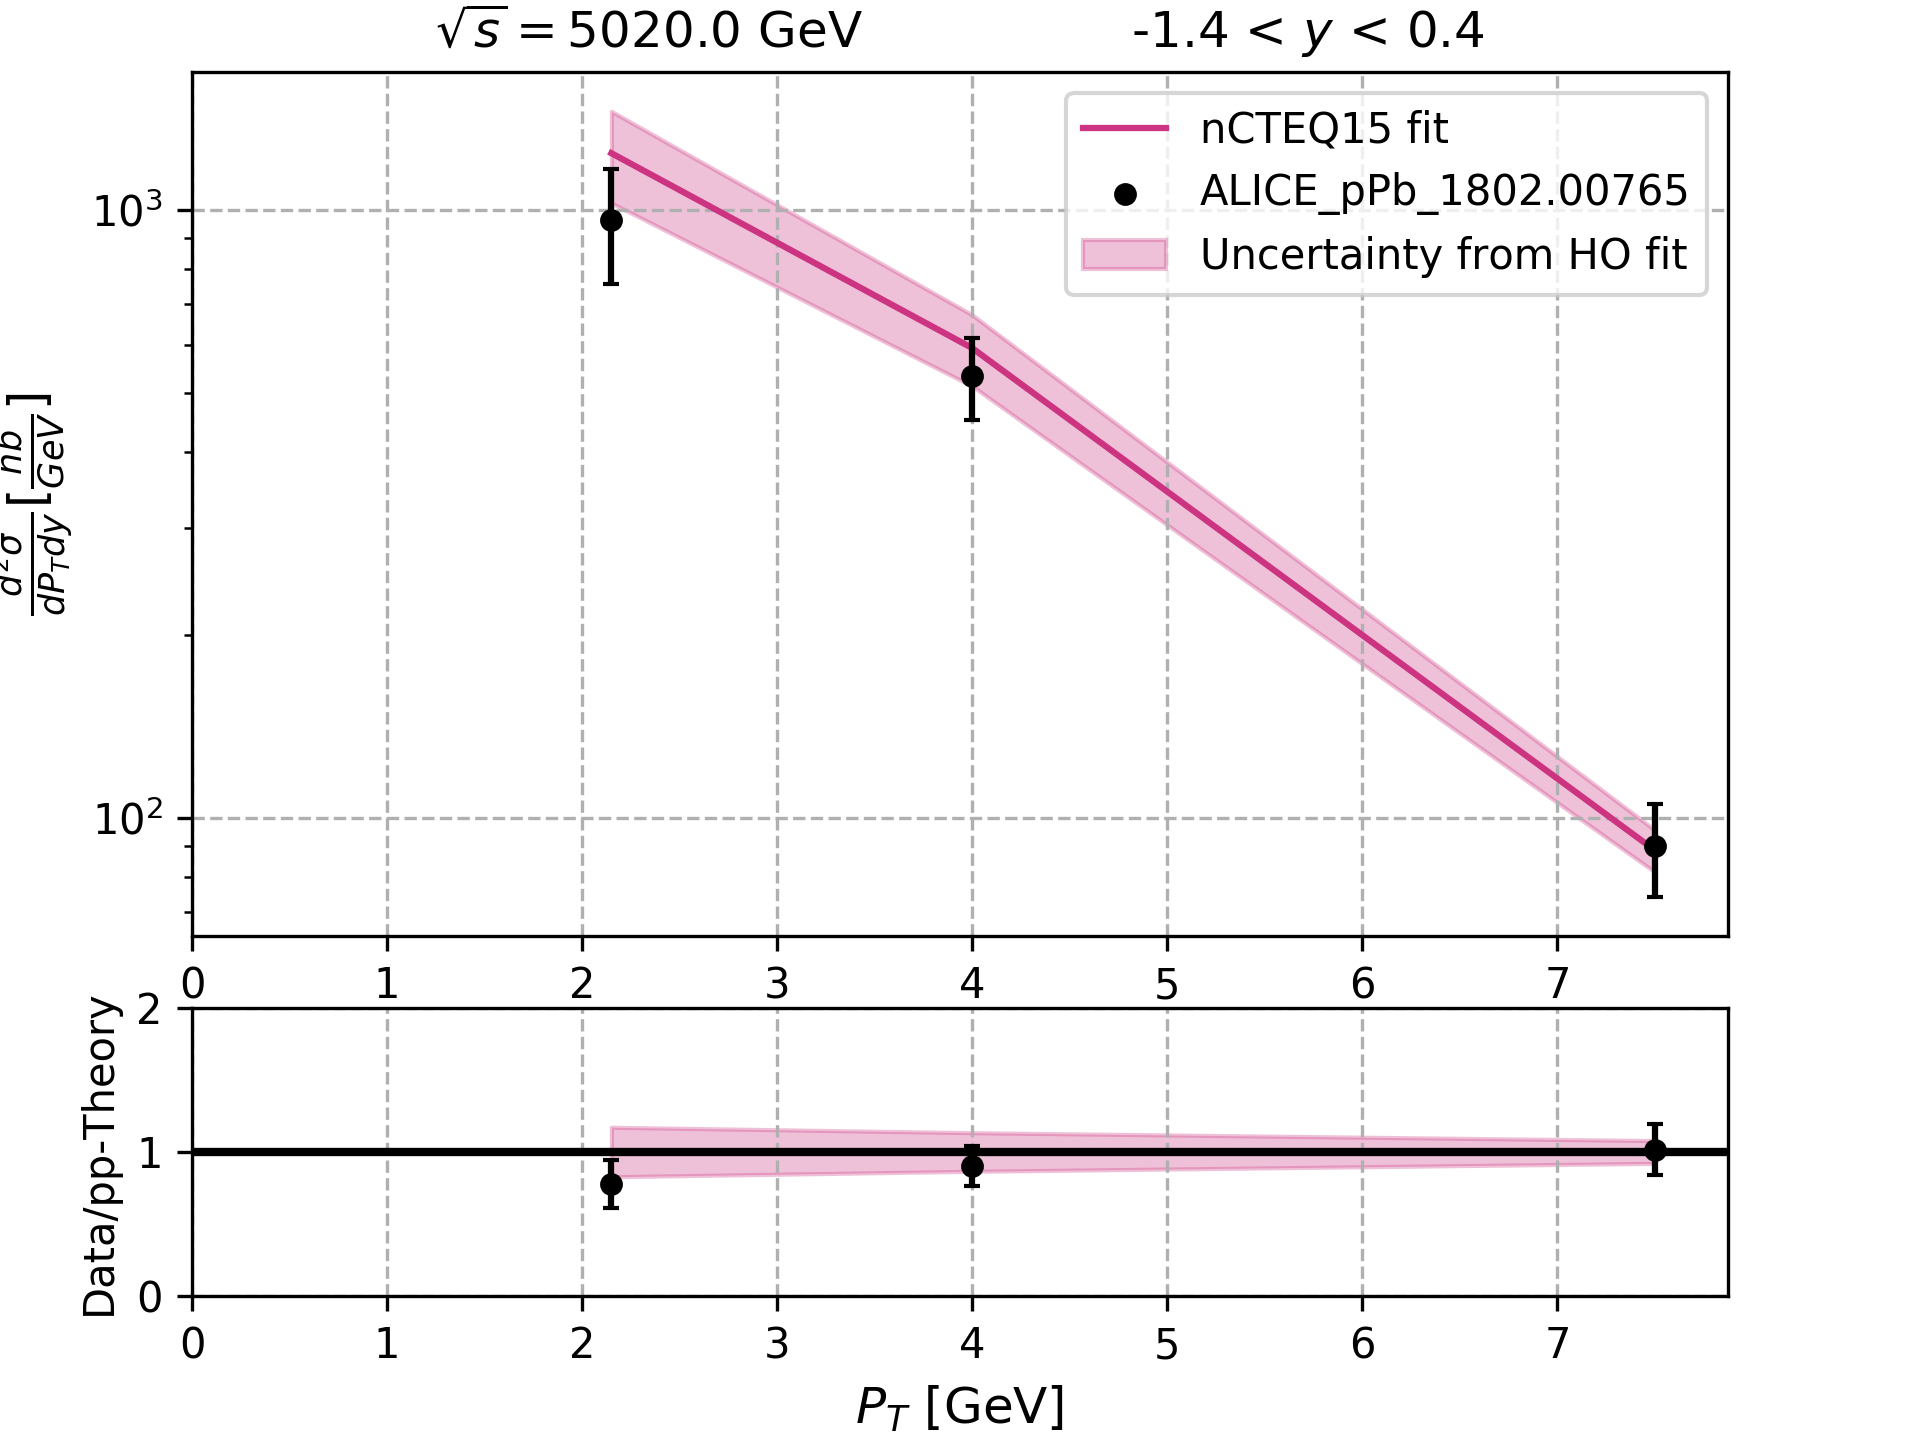
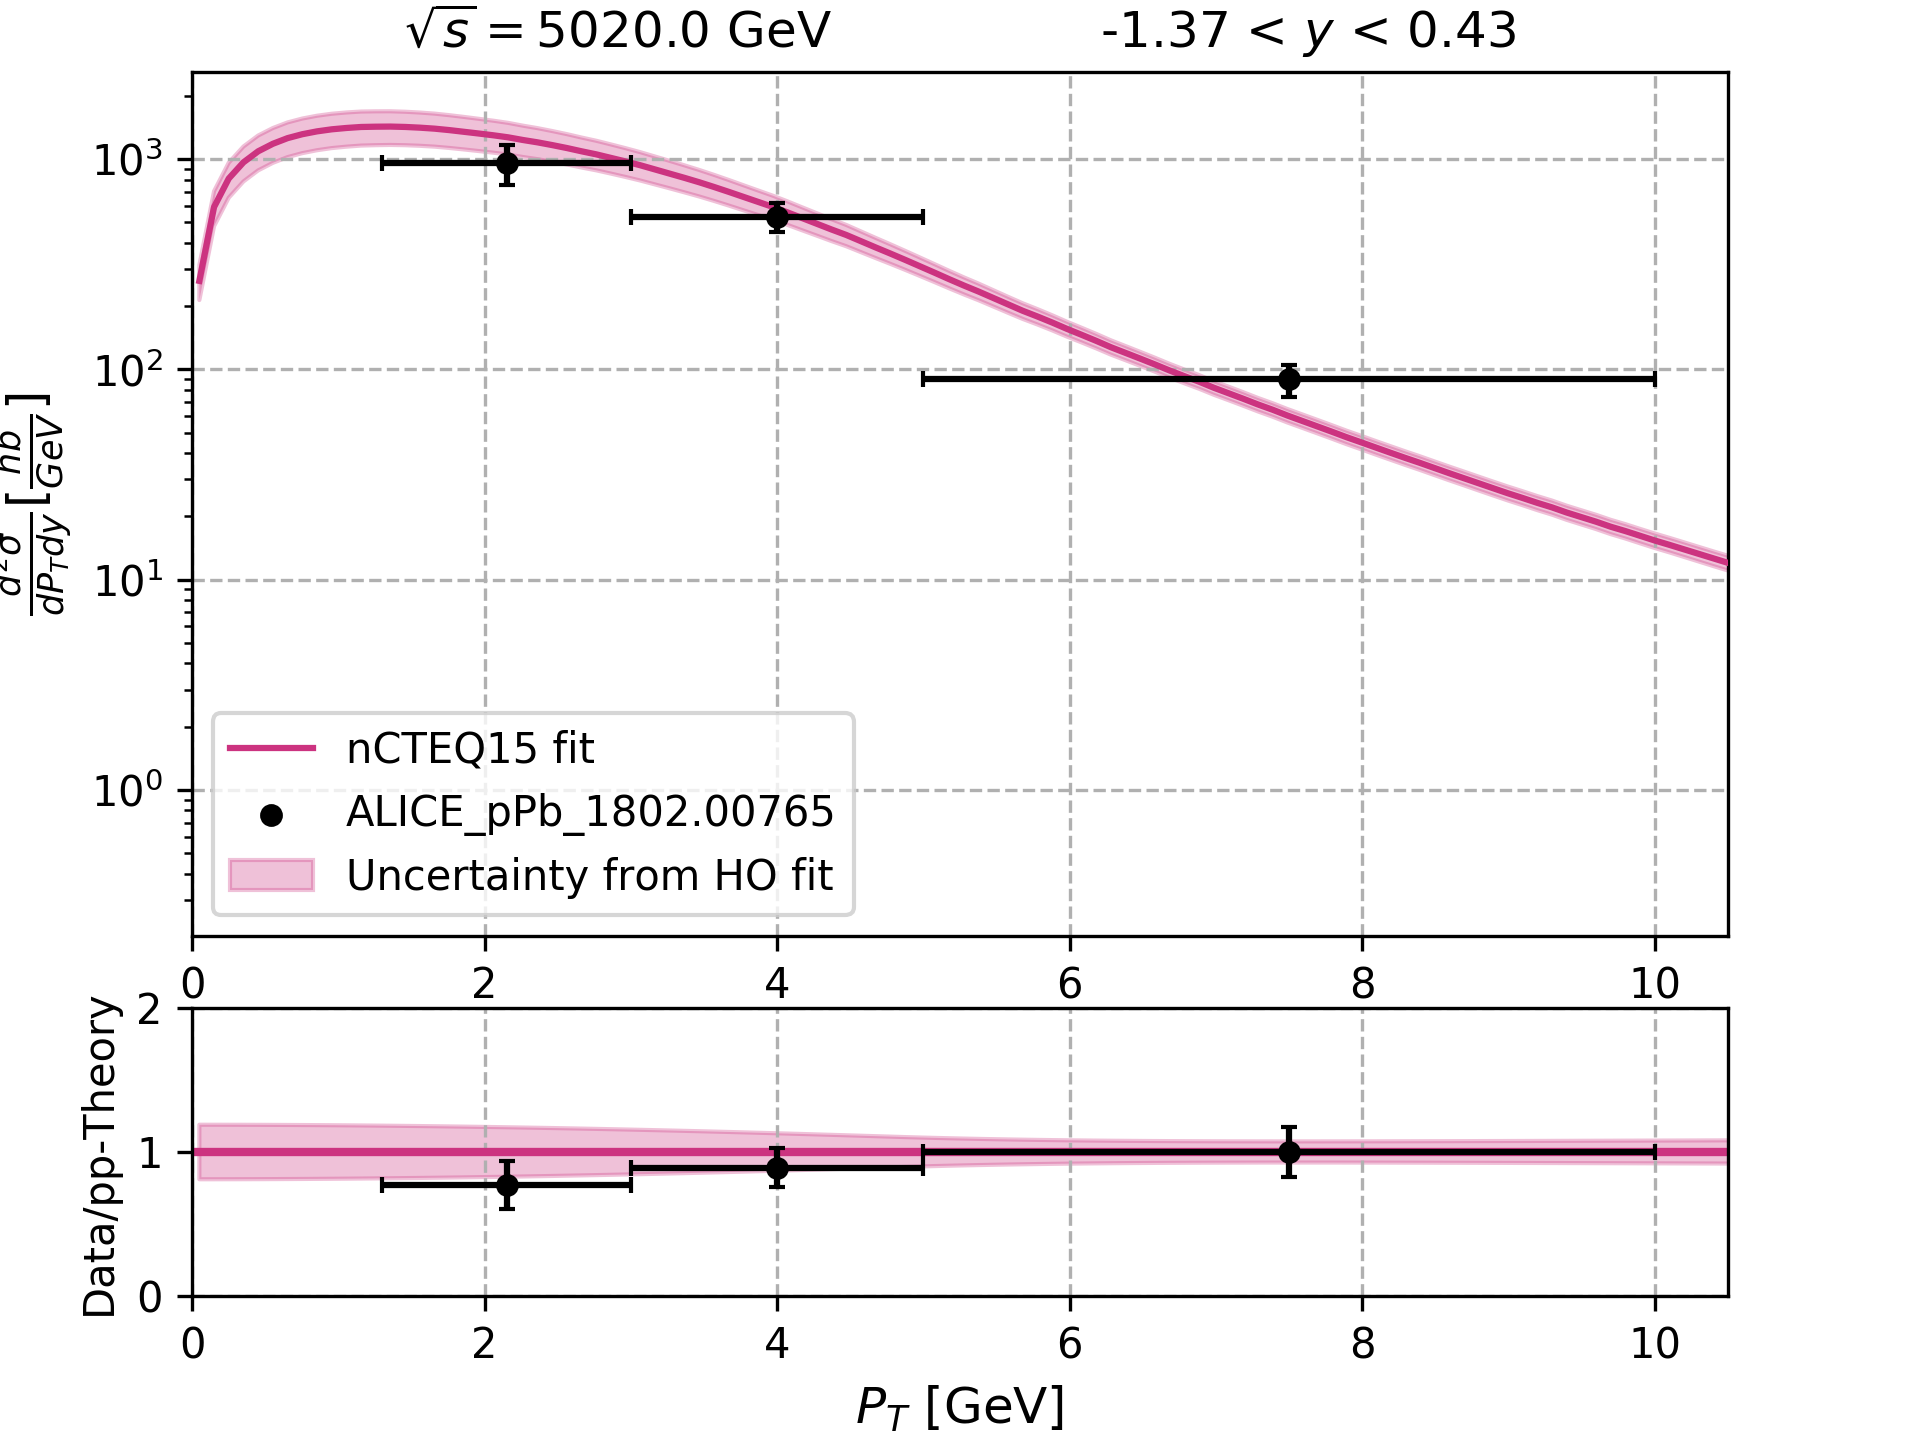
Updated plots

diff --git a/poster_plot.py b/poster_plot.py
@@ -1,10 +1,12 @@
 from __future__ import division
 import numpy as np
 import matplotlib.pyplot as plt
+import matplotlib as mpl
 import sys
 import os
 from random import shuffle
 
+mpl.rcParams['axes.linewidth'] = 1.2
 #plt.style.use("seaborn")
 #theory_folder = "./helaconia/hessian/alice_theory/"
 #data_folder = "./helaconia/hessian/alice_pp_pPb/"
@@ -54,9 +56,15 @@ for k in range(n):
 
 shuffle(colors)
 
+colors = [(0.8,0.2,0.5),(0.5,0.8,0.2),(0.2,0.5,0.8)]
+
+s_list = []
+y_list = []
+
+figure = plt.figure(1)
 for j in range(1,1+len(data_sets)):
     if j == 1:
-        normalization = 1
+        continue
     else:
         normalization = 1000/208
     p_array = np.loadtxt(theory_folder + "PROC_HO_0/P0_addon_fit_pp_psiX_CrystalBall/output/comparison_{}.dat".format(j+len(data_sets)))[:,0:2]
@@ -67,6 +75,8 @@ for j in range(1,1+len(data_sets)):
     y_bounds = [data_sets[j-1][1].split(" ")[1], data_sets[j-1][1].split(" ")[2]]
     s = data_sets[j-1][1].split(" ")[0]
     ev_list = []
+    s_list.append(s)
+    y_list.append(y_bounds)
     
     for i in range(1, 2*N_ev+1)[::-1]:
         array = np.loadtxt(theory_folder + "PROC_HO_{}/P0_addon_fit_pp_psiX_CrystalBall/output/comparison_{}.dat".format(i, j+len(data_sets)))
@@ -79,33 +89,48 @@ for j in range(1,1+len(data_sets)):
         
     errors = np.sqrt(errors)
 
-    figure = plt.figure(1)
-    frame1 = figure.add_axes((0.1,0.35,0.8,0.6))
-    plt.title(r"$\sqrt{s} = $" + "{} GeV                 ".format(s) + "{} < $y$ < {}".format(y_bounds[0], y_bounds[1]), fontsize  = 12)
+    frame1 = figure.add_axes((0.15,0.1+1.6/3-(j-2)*0.8/3,0.8,0.8/3))
+    
+    #plt.title(r"$\sqrt{s} = $" + "{} GeV                 ".format(s) + "{} < $y$ < {}".format(y_bounds[0], y_bounds[1]), fontsize  = 12)
     plt.xlim(0,60)
-    plt.plot(pt_array_p, p_array[:,1], "-", zorder = 99, color = (0.8,0.2,0.5), label = "nCTEQ15 fit")
-    plt.scatter((pt_mins[j-1]+pt_maxs[j-1])/2, data_array[:,0]*normalization, marker="o", zorder = 999, color = (0,0,0), s = 20, label = data_sets[j-1][0][2:-1])
-    plt.errorbar((pt_mins[j-1]+pt_maxs[j-1])/2, data_array[:,0]*normalization, yerr = data_array[:,1]*normalization, xerr = (pt_maxs[j-1]-pt_mins[j-1])/2, zorder = 109, color = (0,0,0), fmt="", capsize=2)
-    plt.fill_between(pt_array_p, (ev_list[0][:,1]+ev_list[1][:,1])/2-errors, (ev_list[0][:,1]+ev_list[1][:,1])/2+errors, color = (0.8,0.2,0.5), alpha = 0.3, label="Uncertainty from HO fit")
+    plt.plot(pt_array_p, p_array[:,1], "-", zorder = 99, color = (0.0,0.0,0.0))
+    plt.errorbar((pt_mins[j-1]+pt_maxs[j-1])/2, data_array[:,0]*normalization, yerr = data_array[:,1]*normalization, xerr = (pt_maxs[j-1]-pt_mins[j-1])/2, zorder = 109, color=colors[j-2], fmt="", capsize=2)
+    plt.fill_between(pt_array_p, (ev_list[0][:,1]+ev_list[1][:,1])/2-errors, (ev_list[0][:,1]+ev_list[1][:,1])/2+errors, color = (0.0,0.0,0.0), alpha = 0.3)
+    plt.scatter((pt_mins[j-1]+pt_maxs[j-1])/2, data_array[:,0]*normalization, marker="o", zorder = 999, color = colors[j-2], s = 20, label = r"$\sqrt{s} = $" + "{} TeV;   ".format(int(float(s))//1000) + "$y\in[{}, {}]$".format(y_bounds[0], y_bounds[1]))
     plt.yscale("log")
-    plt.legend(loc = "lower left")
-    plt.xlim(0, min(max(pt_maxs[j-1])*1.05,20))
+    plt.xlim(0, 20)
+    plt.ylim(0.2, 2500)
+    plt.legend(frameon=True, loc = "lower left")
     #plt.ylim(min(data_array[:,0])/4, max(data_array[:,0])*4)
     #plt.xticks([])
     plt.ylabel(r"$\frac{d^2\sigma}{dP_Tdy} [\frac{nb}{GeV}]$", fontsize = 12)
     plt.grid(linestyle= "--")
-
-    frame2 = figure.add_axes((0.1,0.1,0.8,0.2))
+    if j == 4:
+        plt.xticks([0,4,8,12,16,20], [0,4,8,12,16,20])
+    else:
+        plt.xticks([0,4,8,12,16,20], [" ", " ", " ", " ", " ", " "])
+    """
+    #frame2 = figure.add_axes((0.1,0.1,0.8,0.2))
     #plt.fill_between(pt_array_p, ((ev_list[0][:,1]+ev_list[1][:,1])/2-errors)/((ev_list[0][:,1]+ev_list[1][:,1])/2), ((ev_list[0][:,1]+ev_list[1][:,1])/2+errors)/((ev_list[0][:,1]+ev_list[1][:,1])/2), color = (0.8,0.2,0.5), alpha = 0.3)
     plt.scatter((pt_mins[j-1]+pt_maxs[j-1])/2, data_array[:,0]/pp_data_array[:,1]*normalization, marker="o", zorder = 999, color = (0,0,0), s = 20, label = data_sets[j-1][0][2:-1])
     plt.errorbar((pt_mins[j-1]+pt_maxs[j-1])/2, data_array[:,0]*normalization/pp_data_array[:,1], yerr = data_array[:,1]*normalization/pp_data_array[:,1], xerr = (pt_maxs[j-1]-pt_mins[j-1])/2, zorder = 109, color = (0,0,0), fmt="", capsize=2)
     plt.fill_between(pt_array_p, ((ev_list[0][:,1]+ev_list[1][:,1])/2-errors)/p_array[:,1], ((ev_list[0][:,1]+ev_list[1][:,1])/2+errors)/p_array[:,1], color = (0.8,0.2,0.5), alpha = 0.3)
     plt.ylabel("Data/pp-Theory")
     plt.plot([-1,99999], [1,1], "-", linewidth = "2", color = (0.8,0.2,0.5))
-    plt.xlabel("$P_T$ [GeV]", fontsize = 12)
     plt.xlim(0, min(max(pt_maxs[j-1])*1.05,20))
     plt.ylim(0.,2.)
     plt.grid(linestyle= "--")
+    """
     #plt.yscale("log")
-    plt.savefig("plots/alice_pPb_comparison_{}".format(j), dpi = 300)
-    plt.show()
+#plt.scatter((pt_mins[j-1]+pt_maxs[j-1])/2+1000, data_array[:,0]*normalization, marker="o", zorder = 999, color = colors[0], s = 20, label = r"$\sqrt{s} = $" + "{} TeV, ".format(float(s_list[0])//1000) + "{} < $y$ < {}".format(y_list[0][0], y_list[0][1]))
+#plt.scatter((pt_mins[j-1]+pt_maxs[j-1])/2+1000, data_array[:,0]*normalization, marker="o", zorder = 999, color = colors[1], s = 20, label = r"$\sqrt{s} = $" + "{} TeV, ".format(float(s_list[1])//1000) + "{} < $y$ < {}".format(y_list[1][1], y_list[1][1]))
+plt.xlabel("$P_T$ [GeV]", fontsize = 12)
+frame1 = figure.add_axes((0.15,0.9,0.8,0.0001))
+plt.plot(pt_array_p, p_array[:,1], "-", zorder = 99, color = (0.0,0.0,0.0), label = "nCTEQ15 proton")
+plt.fill_between(pt_array_p, (ev_list[0][:,1]+ev_list[1][:,1])/2-errors, (ev_list[0][:,1]+ev_list[1][:,1])/2+errors, color = (0.0,0.0,0.0), alpha = 0.3, label="Helac-Onia fit uncertainty")
+plt.xticks([])
+plt.yticks([])
+plt.legend()
+#plt.legend()
+plt.savefig("plots/poster", dpi = 300)
+plt.show()

diff --git a/generate_pseudodata_alice.py b/generate_pseudodata_alice.py
@@ -20,13 +20,13 @@ with open("pseudodata_alice.dat", "w+") as file:
     file.write(desc(5020., [-0.9, 0.9], nbin))
     for pt in np.linspace(ptmin, ptmax, num = nbin):
         file.write(line(pt))
-    file.write(desc(5020., [-1.4, 0.4], nbin))
+    file.write(desc(5020., [-0.905, 0.895], nbin))
     for pt in np.linspace(ptmin, ptmax, num = nbin):
         file.write(line(pt))
-    file.write(desc(8016., [-4.5, -3.0], nbin))
+    file.write(desc(8016., [-3.985, -2.495], nbin))
     for pt in np.linspace(ptmin, ptmax, num = nbin):
         file.write(line(pt))
-    file.write(desc(8016., [2.0, 3.5], nbin))
+    file.write(desc(8016., [1.565, 3.065], nbin))
     for pt in np.linspace(ptmin, ptmax, num = nbin):
         file.write(line(pt))
 
